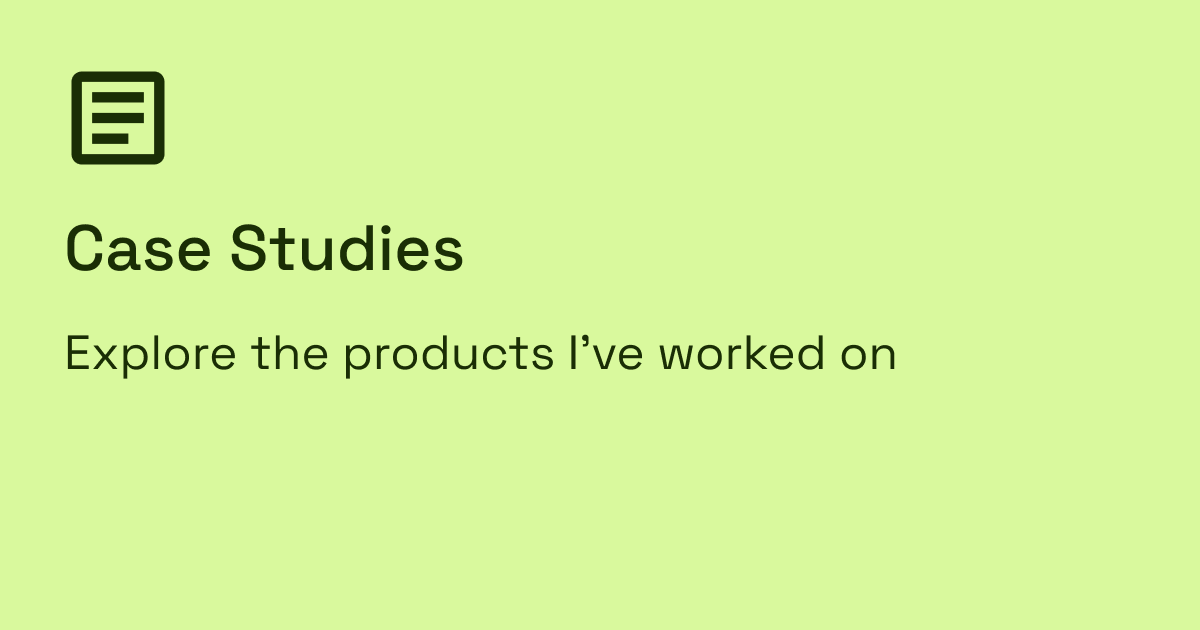
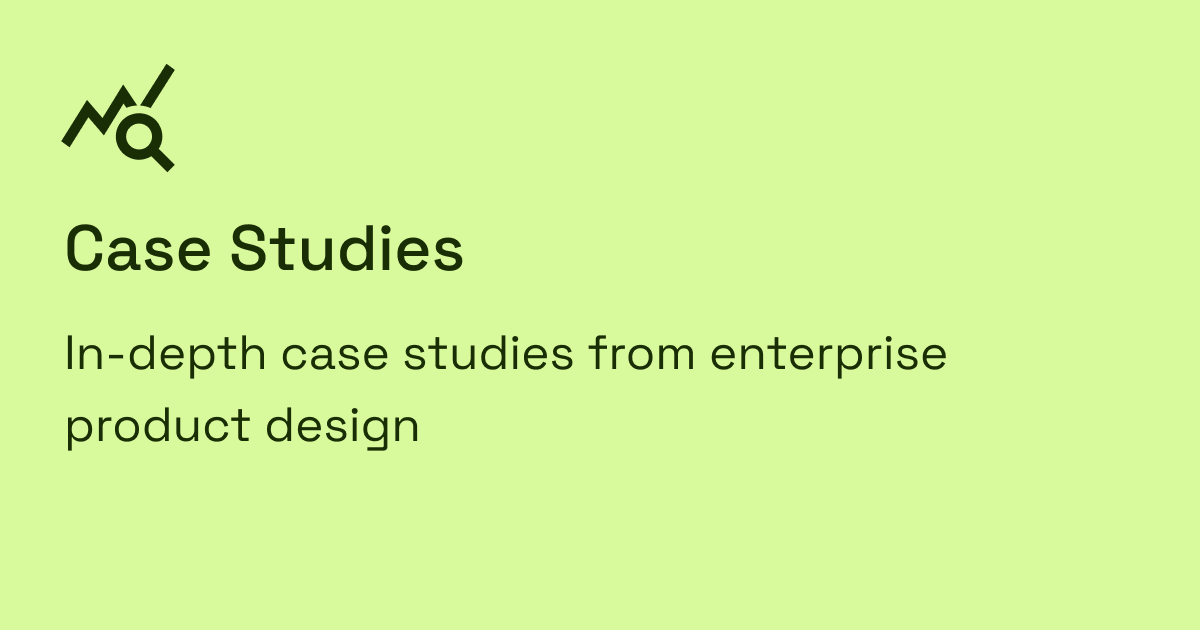
chore(articles): new images for open graph

Changed region(s): [[0.0617, 0.5127, 0.8017, 0.6032], [0.0308, 0.6635, 0.37, 0.7238], [0.0308, 0.0905, 0.1542, 0.2714]]

diff --git a/src/app/articles/page.tsx b/src/app/articles/page.tsx
@@ -19,7 +19,7 @@ export const metadata: Metadata = {
     url: 'https://o10n.design/articles',
     images: [
       {
-        url: 'https://o10n.design/img/og_images/writings_open_graph.png',
+        url: 'https://o10n.design/img/og_images/articles_open_graph.png',
         width: 1200,
         height: 630,
         alt: 'Oğuzhan Özcan Articles - Design Systems & Accessibility - o10n',
@@ -34,7 +34,7 @@ export const metadata: Metadata = {
     title: 'Articles | Design Systems & Developer Handoff',
     description:
       'Articles on design systems, accessibility, and design-to-code workflows. Building better handoffs between design and development.',
-    images: ['https://o10n.design/img/og_images/writings_open_graph.png'],
+    images: ['https://o10n.design/img/og_images/articles_open_graph.png'],
     creator: '@ouzozcn',
     site: '@ouzozcn',
   },

diff --git a/src/components/Footer.tsx b/src/components/Footer.tsx
@@ -88,7 +88,7 @@ export const Footer: React.FC = () => {
           <TextLink label="Jotform Logbook" to="/ideas/jotform-logbook" />
         </div>
 
-        <div className="Column__Writings flex flex-col gap-2 items-center md:items-start">
+        <div className="Column__Articles flex flex-col gap-2 items-center md:items-start">
           <TextLink style="primary" label="Articles" to="/articles" />
           <TextLink
             label="Component Design for JavaScript Frameworks"
